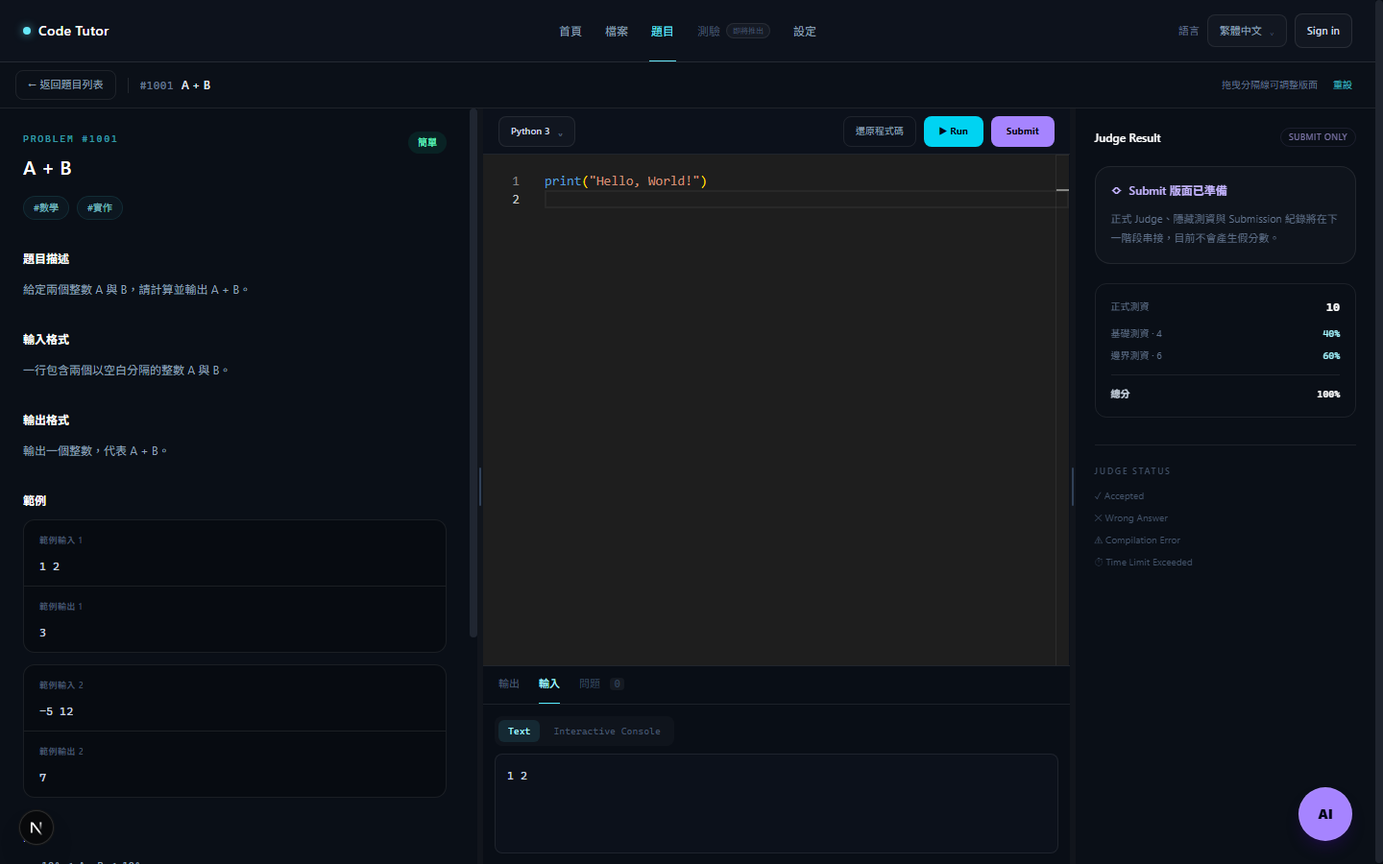
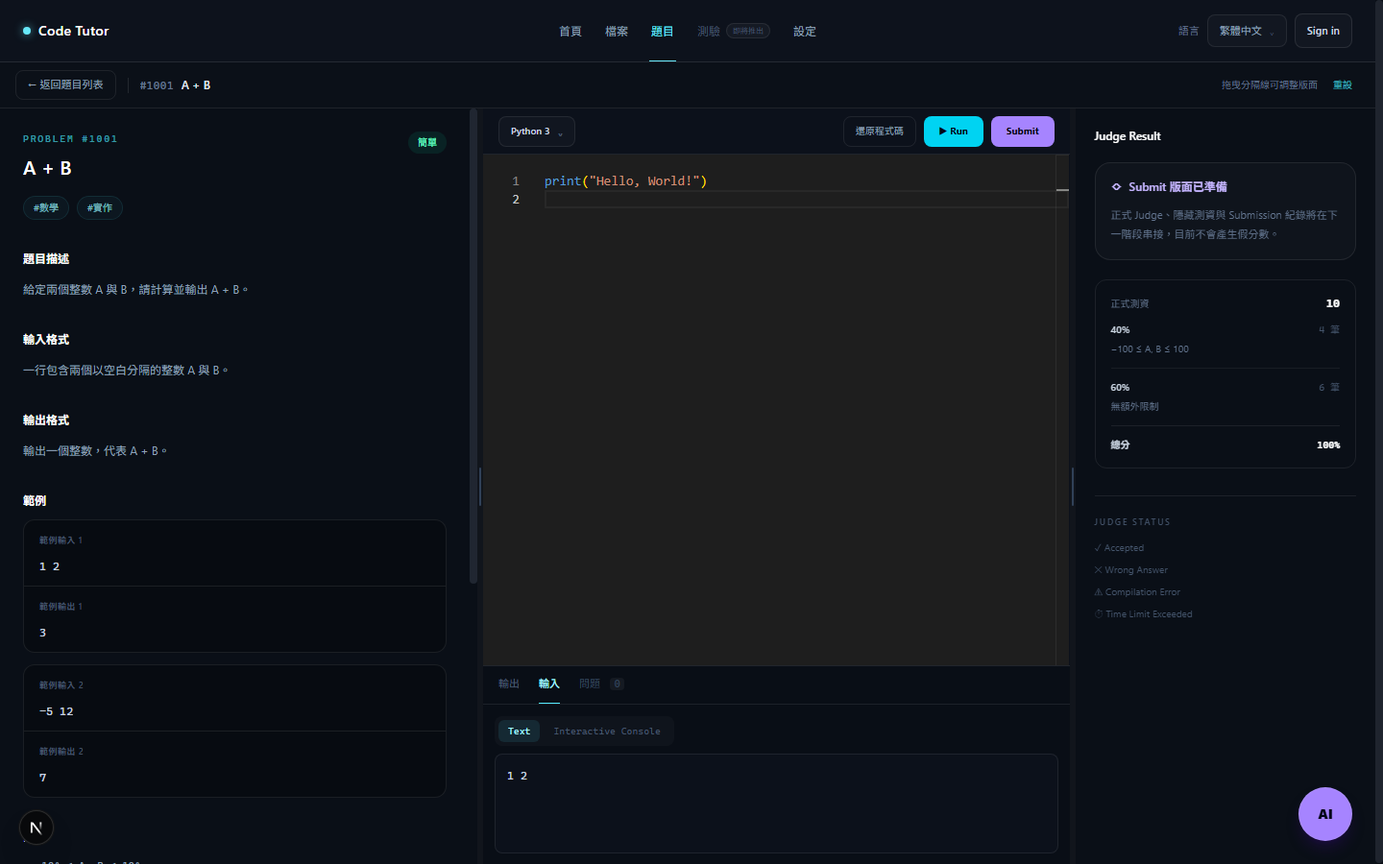
Refine problem workspace navigation and scoring

diff --git a/frontend/src/components/problems/problem-solver-page.tsx b/frontend/src/components/problems/problem-solver-page.tsx
@@ -46,7 +46,7 @@ export function ProblemSolverPage({ problem, onBack }: { problem: Problem; onBac
   const [stdin, setStdin] = useState(problem.samples[0]?.input ?? "");
   const [runResult, setRunResult] = useState<RunResult | null>(null);
   const [isRunning, setIsRunning] = useState(false);
-  const [activeConsoleTab, setActiveConsoleTab] = useState<"output" | "input">("output");
+  const [activeConsoleTab, setActiveConsoleTab] = useState<"output" | "input">("input");
   const [inputMode, setInputMode] = useState<"batch" | "interactive">("batch");
   const [interactiveOutput, setInteractiveOutput] = useState<InteractiveOutput[]>([]);
   const [interactiveStatus, setInteractiveStatus] = useState<InteractiveStatus>("idle");
@@ -246,7 +246,7 @@ export function ProblemSolverPage({ problem, onBack }: { problem: Problem; onBac
       </div>
 
       {aiOpen ? (
-        <div className="fixed bottom-5 right-5 z-50 h-[min(600px,calc(100dvh-7rem))] w-[min(380px,calc(100vw-2.5rem))] overflow-hidden rounded-2xl border border-violet-300/20 bg-[#0b1018] shadow-2xl shadow-black/60">
+        <div className="fixed bottom-5 right-5 z-50 h-[min(600px,calc(100dvh-8.75rem))] w-[min(380px,calc(100vw-2.5rem))] overflow-hidden rounded-2xl border border-violet-300/20 bg-[#0b1018] shadow-2xl shadow-black/60">
           <AiTutorPanel code={code} errorOutput={aiErrorOutput} onClose={() => setAiOpen(false)} programmingLanguage={programmingLanguage} />
         </div>
       ) : (
@@ -276,7 +276,7 @@ function ProblemStatement({ problem, textKey, zh }: { problem: Problem; textKey:
       <StatementSection title={zh ? "限制" : "Constraints"}><ul className="space-y-1 font-mono text-[11px]">{problem.constraints.map((constraint) => <li key={constraint[textKey]}>• {constraint[textKey]}</li>)}</ul><div className="mt-4 grid grid-cols-2 gap-2"><LimitCard label="Time Limit" value={`${problem.timeLimitMs / 1000} sec`} /><LimitCard label="Memory Limit" value={`${problem.memoryLimitMb} MB`} /></div></StatementSection>
       <StatementSection title={zh ? "測資與計分" : "Tests and scoring"}>
         <div className="flex items-center justify-between rounded-lg border border-white/8 bg-white/[0.02] px-3 py-2"><span>{zh ? "正式測資總數" : "Total judge cases"}</span><strong className="font-mono text-cyan-200">{totalCases}</strong></div>
-        <div className="space-y-2">{problem.testGroups.map((group, index) => <div key={group.name[textKey]} className="grid grid-cols-[1fr_auto_auto] items-center gap-3 rounded-lg border border-white/8 px-3 py-2"><span className="text-slate-300">{zh ? `群組 ${index + 1}：` : `Group ${index + 1}: `}{group.name[textKey]}</span><span className="font-mono text-[10px] text-slate-500">{group.testCaseCount} {zh ? "筆" : "cases"}</span><strong className="font-mono text-[10px] text-cyan-200">{group.scorePercent}%</strong></div>)}</div>
+        <div className="space-y-2">{problem.testGroups.map((group, index) => <div key={group.name[textKey]} className="rounded-lg border border-white/8 bg-white/[0.015] px-3 py-3"><div className="flex items-center justify-between gap-3"><span className="text-[10px] font-semibold text-slate-300">{zh ? `子任務 ${index + 1}` : `Subtask ${index + 1}`}</span><strong className="font-mono text-[11px] text-cyan-200">{group.scorePercent}%</strong></div><p className="mt-2 text-[11px] leading-5 text-slate-300">{group.condition[textKey]}</p><p className="mt-1 font-mono text-[9px] text-slate-600">{group.testCaseCount} {zh ? "筆測資" : "judge cases"}</p></div>)}</div>
       </StatementSection>
     </article>
   );
@@ -290,12 +290,12 @@ function JudgePanel({ view, problem, textKey, zh }: { view: JudgeView; problem: 
   const totalCases = problem.testGroups.reduce((sum, group) => sum + group.testCaseCount, 0);
   return (
     <aside className="min-h-[420px] min-w-0 overflow-y-auto bg-[#0a0f17] p-5 xl:min-h-0" aria-label={zh ? "正式評分結果" : "Judge result"}>
-      <div className="flex items-center justify-between"><h2 className="text-xs font-semibold text-white">Judge Result</h2><span className="rounded-full border border-violet-300/10 px-2 py-0.5 text-[9px] uppercase tracking-wider text-violet-300/60">Submit only</span></div>
+      <div className="flex items-center justify-between"><h2 className="text-xs font-semibold text-white">Judge Result</h2></div>
       <div className="mt-5 rounded-2xl border border-white/8 bg-white/[0.025] p-4">
         <div className={`flex items-center gap-2 text-xs font-semibold ${view === "ready" ? "text-slate-300" : "text-violet-300"}`}><span>{view === "ready" ? "○" : "◇"}</span><span>{view === "ready" ? (zh ? "等待送出" : "Ready to submit") : (zh ? "Submit 版面已準備" : "Submit UI is ready")}</span></div>
         <p className="mt-3 text-[11px] leading-5 text-slate-500">{view === "ready" ? (zh ? "按下 Submit 後，正式 Judge 狀態才會顯示在這裡。Run 不會改變此區域。" : "This panel changes only after Submit. Run results stay below the editor.") : (zh ? "正式 Judge、隱藏測資與 Submission 紀錄將在下一階段串接，目前不會產生假分數。" : "The Judge, hidden tests, and submission records will be connected next. No placeholder score is generated.")}</p>
       </div>
-      <div className="mt-5 rounded-xl border border-white/8 p-4"><div className="flex items-center justify-between"><span className="text-[10px] text-slate-500">{zh ? "正式測資" : "Judge cases"}</span><strong className="font-mono text-xs text-white">{totalCases}</strong></div><div className="mt-3 space-y-2">{problem.testGroups.map((group) => <div key={group.name[textKey]} className="flex items-center justify-between text-[10px]"><span className="text-slate-500">{group.name[textKey]} · {group.testCaseCount}</span><span className="font-mono text-cyan-200">{group.scorePercent}%</span></div>)}</div><div className="mt-3 flex items-center justify-between border-t border-white/8 pt-3 text-[10px]"><span className="font-semibold text-slate-300">{zh ? "總分" : "Total"}</span><strong className="font-mono text-white">100%</strong></div></div>
+      <div className="mt-5 rounded-xl border border-white/8 p-4"><div className="flex items-center justify-between"><span className="text-[10px] text-slate-500">{zh ? "正式測資" : "Judge cases"}</span><strong className="font-mono text-xs text-white">{totalCases}</strong></div><div className="mt-3 space-y-3">{problem.testGroups.map((group) => <div key={group.name[textKey]} className="border-t border-white/6 pt-3 first:border-0 first:pt-0"><div className="flex items-center justify-between gap-2 text-[10px]"><span className="font-medium text-slate-300">{group.scorePercent}%</span><span className="font-mono text-slate-600">{group.testCaseCount} {zh ? "筆" : "cases"}</span></div><p className="mt-1 text-[10px] leading-4 text-slate-500">{group.condition[textKey]}</p></div>)}</div><div className="mt-3 flex items-center justify-between border-t border-white/8 pt-3 text-[10px]"><span className="font-semibold text-slate-300">{zh ? "總分" : "Total"}</span><strong className="font-mono text-white">100%</strong></div></div>
       <div className="mt-7 border-t border-white/8 pt-5"><p className="text-[9px] font-semibold uppercase tracking-[0.18em] text-slate-600">Judge status</p><div className="mt-3 grid gap-2 text-[10px] text-slate-600"><span>✓ Accepted</span><span>✕ Wrong Answer</span><span>⚠ Compilation Error</span><span>⏱ Time Limit Exceeded</span></div></div>
     </aside>
   );

diff --git a/plan/mockups/problem-library-folder-grid.html b/plan/mockups/problem-library-folder-grid.html
@@ -1,0 +1,68 @@
+<!doctype html>
+<html lang="zh-Hant">
+<head>
+  <meta charset="utf-8" />
+  <meta name="viewport" content="width=device-width, initial-scale=1" />
+  <title>Code Tutor Problem Grid Mockup</title>
+  <style>
+    * { box-sizing: border-box; }
+    body { margin: 0; min-height: 100vh; background: #090d14; color: #d9e4f2; font-family: Inter, "Noto Sans TC", sans-serif; }
+    header { height: 64px; display: grid; grid-template-columns: 1fr auto 1fr; align-items: center; padding: 0 28px; border-bottom: 1px solid rgba(255,255,255,.09); background: #0d121c; }
+    .brand { display: flex; align-items: center; gap: 10px; font-weight: 700; color: #fff; }
+    .brand-dot { width: 8px; height: 8px; border-radius: 50%; background: #67e8f9; box-shadow: 0 0 12px rgba(103,232,249,.7); }
+    nav { display: flex; height: 64px; gap: 10px; align-items: center; }
+    nav span { height: 64px; display: grid; place-items: center; padding: 0 14px; font-size: 12px; color: #72829a; }
+    nav .active { color: #67e8f9; border-bottom: 1px solid #67e8f9; }
+    .language { justify-self: end; border: 1px solid rgba(255,255,255,.1); border-radius: 10px; padding: 10px 14px; font-size: 11px; color: #9cadc4; }
+    main { max-width: 1320px; margin: 0 auto; padding: 42px 38px 70px; }
+    .proposal { display: inline-flex; align-items: center; gap: 8px; border: 1px solid rgba(196,181,253,.2); border-radius: 999px; background: rgba(196,181,253,.06); padding: 6px 10px; color: #c4b5fd; font-size: 10px; letter-spacing: .08em; }
+    h1 { margin: 16px 0 8px; color: white; font-size: 30px; }
+    .intro { margin: 0; color: #64748b; font-size: 13px; }
+    .explanation { margin-top: 22px; border-left: 2px solid #22d3ee; padding: 8px 14px; color: #8da1ba; font-size: 11px; line-height: 1.8; background: linear-gradient(90deg, rgba(34,211,238,.045), transparent); }
+    .toolbar { margin-top: 28px; display: grid; grid-template-columns: 1fr 180px 180px; gap: 12px; padding: 18px; border: 1px solid rgba(255,255,255,.09); border-radius: 18px; background: #0d131d; }
+    .control { height: 44px; display: flex; align-items: center; border: 1px solid rgba(255,255,255,.09); border-radius: 12px; background: #090e16; padding: 0 15px; color: #53657e; font-size: 11px; }
+    .section-title { margin: 34px 0 8px; display: flex; justify-content: space-between; align-items: end; }
+    .section-title h2 { margin: 0; color: #fff; font-size: 15px; }
+    .section-title span { color: #40516a; font-size: 10px; }
+    .grid { display: grid; grid-template-columns: repeat(4, minmax(0, 1fr)); gap: 18px; margin-top: 18px; }
+    .problem { min-width: 0; border: 1px solid rgba(255,255,255,.08); border-radius: 18px; background: #0c121b; padding: 18px 16px 15px; transition: .2s; }
+    .problem.selected { border-color: rgba(103,232,249,.34); background: #0d1721; box-shadow: 0 0 0 1px rgba(103,232,249,.05), 0 14px 30px rgba(0,0,0,.18); }
+    .folder { position: relative; height: 112px; margin-top: 9px; border: 1px solid rgba(103,232,249,.18); border-radius: 10px 12px 12px 12px; background: linear-gradient(145deg, #132332, #0d1823); overflow: visible; }
+    .folder::before { content: ""; position: absolute; left: -1px; top: -15px; width: 72px; height: 24px; border: 1px solid rgba(103,232,249,.18); border-bottom: 0; border-radius: 9px 13px 0 0; background: #132332; }
+    .folder-top { position: absolute; inset: 0; display: flex; flex-direction: column; justify-content: space-between; padding: 17px 15px 14px; }
+    .meta { display: flex; align-items: center; justify-content: space-between; }
+    .id { font: 10px Consolas, monospace; color: #52647b; }
+    .status { font-size: 9px; color: #6ee7b7; }
+    .title { color: #f5f8fc; font-size: 14px; font-weight: 700; line-height: 1.35; }
+    .difficulty { width: max-content; border-radius: 999px; padding: 3px 7px; font-size: 8px; font-weight: 700; background: rgba(52,211,153,.08); color: #6ee7b7; }
+    .difficulty.medium { background: rgba(251,191,36,.08); color: #fde68a; }
+    .difficulty.hard { background: rgba(251,113,133,.08); color: #fda4af; }
+    .file-label { min-height: 37px; margin-top: 12px; text-align: center; color: #8ea3bb; font-size: 10px; line-height: 1.65; }
+    .file-label strong { color: #67e8f9; font-weight: 500; }
+    .hint { margin-top: 22px; display: flex; align-items: center; gap: 8px; color: #51627a; font-size: 10px; }
+    .hint i { width: 6px; height: 6px; border-radius: 50%; background: #67e8f9; }
+  </style>
+</head>
+<body>
+  <header>
+    <div class="brand"><span class="brand-dot"></span>Code Tutor</div>
+    <nav><span>首頁</span><span>檔案</span><span class="active">題目</span><span>測驗</span><span>設定</span></nav>
+    <div class="language">語言　繁體中文⌄</div>
+  </header>
+  <main>
+    <span class="proposal">設計提案 · 尚未套用正式頁面</span>
+    <h1>用資料夾方式瀏覽題目</h1>
+    <p class="intro">保留 Code Tutor 的深色工程風格，把原本的一列一列改成更容易掃視與點擊的格狀卡片。</p>
+    <div class="explanation">本提案暫定：每個資料夾代表一道題目；題目名稱放在資料夾內，資料夾下方原本像「檔名」的位置顯示這道題目的標籤。整張卡片都可以點擊。</div>
+    <div class="toolbar"><div class="control">⌕　搜尋題號、名稱或 #標籤…</div><div class="control">所有難度　⌄</div><div class="control">所有狀態　⌄</div></div>
+    <div class="section-title"><h2>題目資料夾</h2><span>找到 4 題</span></div>
+    <section class="grid">
+      <article class="problem selected"><div class="folder"><div class="folder-top"><div class="meta"><span class="id">#1001</span><span class="status">✓ 已通過</span></div><div class="title">A + B</div><span class="difficulty">簡單</span></div></div><div class="file-label"><strong>#數學</strong>　<strong>#實作</strong></div></article>
+      <article class="problem"><div class="folder"><div class="folder-top"><div class="meta"><span class="id">#1002</span><span class="status" style="color:#fde68a">◐ 嘗試過</span></div><div class="title">在排序陣列中<br>尋找目標</div><span class="difficulty medium">中等</span></div></div><div class="file-label"><strong>#二分搜尋</strong>　<strong>#陣列</strong></div></article>
+      <article class="problem"><div class="folder"><div class="folder-top"><div class="meta"><span class="id">#1003</span><span class="status" style="color:#52647b">○ 未作答</span></div><div class="title">迷宮最短路徑</div><span class="difficulty medium">中等</span></div></div><div class="file-label"><strong>#BFS</strong>　<strong>#圖論</strong></div></article>
+      <article class="problem"><div class="folder"><div class="folder-top"><div class="meta"><span class="id">#1004</span><span class="status" style="color:#52647b">○ 未作答</span></div><div class="title">最大連續和</div><span class="difficulty hard">困難</span></div></div><div class="file-label"><strong>#動態規劃</strong>　<strong>#陣列</strong></div></article>
+    </section>
+    <div class="hint"><i></i>核可後才會將這個格狀版面套用到正式 Problems 頁面。</div>
+  </main>
+</body>
+</html>

diff --git a/frontend/src/components/problems/problem-data.ts b/frontend/src/components/problems/problem-data.ts
@@ -15,6 +15,7 @@ export type ProblemSample = {
 
 export type ProblemTestGroup = {
   name: LocalizedText;
+  condition: LocalizedText;
   testCaseCount: number;
   scorePercent: number;
 };
@@ -79,8 +80,8 @@ export const problems: Problem[] = [
     ],
     constraints: [{ zh: "−10⁹ ≤ A, B ≤ 10⁹", en: "−10⁹ ≤ A, B ≤ 10⁹" }],
     testGroups: [
-      { name: { zh: "基礎測資", en: "Basic cases" }, testCaseCount: 4, scorePercent: 40 },
-      { name: { zh: "邊界測資", en: "Boundary cases" }, testCaseCount: 6, scorePercent: 60 },
+      { name: { zh: "小範圍", en: "Small range" }, condition: { zh: "−100 ≤ A, B ≤ 100", en: "−100 ≤ A, B ≤ 100" }, testCaseCount: 4, scorePercent: 40 },
+      { name: { zh: "完整範圍", en: "Full range" }, condition: { zh: "無額外限制", en: "No additional constraints" }, testCaseCount: 6, scorePercent: 60 },
     ],
     timeLimitMs: 1000,
     memoryLimitMb: 256,
@@ -108,8 +109,8 @@ export const problems: Problem[] = [
       { zh: "−10⁹ ≤ 陣列元素, X ≤ 10⁹", en: "−10⁹ ≤ array values, X ≤ 10⁹" },
     ],
     testGroups: [
-      { name: { zh: "無重複元素", en: "Unique values" }, testCaseCount: 8, scorePercent: 40 },
-      { name: { zh: "完整測資", en: "Full cases" }, testCaseCount: 12, scorePercent: 60 },
+      { name: { zh: "小範圍且無重複", en: "Small unique range" }, condition: { zh: "N ≤ 1,000，且陣列元素皆不重複", en: "N ≤ 1,000 and all array values are unique" }, testCaseCount: 8, scorePercent: 40 },
+      { name: { zh: "完整範圍", en: "Full range" }, condition: { zh: "無額外限制", en: "No additional constraints" }, testCaseCount: 12, scorePercent: 60 },
     ],
     timeLimitMs: 1000,
     memoryLimitMb: 256,
@@ -130,12 +131,11 @@ export const problems: Problem[] = [
     outputFormat: { zh: "輸出最少步數；如果無法到達，輸出 −1。", en: "Print the minimum steps, or −1 if the exit is unreachable." },
     samples: [
       { input: "3 4\nS...\n.##.\n...E", output: "5" },
-      { input: "2 2\nS#\n.E", output: "2" },
     ],
     constraints: [{ zh: "1 ≤ H, W ≤ 1,000", en: "1 ≤ H, W ≤ 1,000" }],
     testGroups: [
-      { name: { zh: "小型迷宮", en: "Small mazes" }, testCaseCount: 10, scorePercent: 30 },
-      { name: { zh: "大型迷宮", en: "Large mazes" }, testCaseCount: 20, scorePercent: 70 },
+      { name: { zh: "小型迷宮", en: "Small mazes" }, condition: { zh: "H, W ≤ 30", en: "H, W ≤ 30" }, testCaseCount: 10, scorePercent: 30 },
+      { name: { zh: "完整範圍", en: "Full range" }, condition: { zh: "無額外限制", en: "No additional constraints" }, testCaseCount: 20, scorePercent: 70 },
     ],
     timeLimitMs: 2000,
     memoryLimitMb: 256,
@@ -156,14 +156,15 @@ export const problems: Problem[] = [
     samples: [
       { input: "8\n-2 -3 4 -1 -2 1 5 -3", output: "7" },
       { input: "3\n-5 -1 -8", output: "-1" },
+      { input: "5\n1 2 3 4 5", output: "15" },
     ],
     constraints: [
       { zh: "1 ≤ N ≤ 1,000,000", en: "1 ≤ N ≤ 1,000,000" },
       { zh: "−10⁹ ≤ Ai ≤ 10⁹", en: "−10⁹ ≤ Ai ≤ 10⁹" },
     ],
     testGroups: [
-      { name: { zh: "小範圍", en: "Small range" }, testCaseCount: 10, scorePercent: 30 },
-      { name: { zh: "完整範圍", en: "Full range" }, testCaseCount: 20, scorePercent: 70 },
+      { name: { zh: "小範圍", en: "Small range" }, condition: { zh: "N ≤ 5,000", en: "N ≤ 5,000" }, testCaseCount: 10, scorePercent: 30 },
+      { name: { zh: "完整範圍", en: "Full range" }, condition: { zh: "無額外限制", en: "No additional constraints" }, testCaseCount: 20, scorePercent: 70 },
     ],
     timeLimitMs: 1000,
     memoryLimitMb: 256,

diff --git a/frontend/src/components/problems/problems-page.tsx b/frontend/src/components/problems/problems-page.tsx
@@ -1,6 +1,6 @@
 "use client";
 
-import { useMemo, useState } from "react";
+import { useEffect, useMemo, useRef, useState } from "react";
 
 import { useLanguage } from "@/lib/language-context";
 
@@ -9,8 +9,9 @@ import { ProblemSolverPage } from "./problem-solver-page";
 
 const allTags = Object.keys(tagLabels) as ProblemTag[];
 const hashtagPattern = /#[^\s#]+/gu;
+const selectedProblemStorageKey = "code-tutor:selected-problem";
 
-export function ProblemsPage() {
+export function ProblemsPage({ resetListRevision = 0 }: { resetListRevision?: number }) {
   const { language } = useLanguage();
   const zh = language === "zh-Hant";
   const textKey = zh ? "zh" : "en";
@@ -19,6 +20,23 @@ export function ProblemsPage() {
   const [difficulty, setDifficulty] = useState<ProblemDifficulty | "all">("all");
   const [status, setStatus] = useState<ProblemStatus | "all">("all");
   const [selectedTags, setSelectedTags] = useState<ProblemTag[]>([]);
+  const previousResetRevision = useRef(resetListRevision);
+
+  useEffect(() => {
+    const restoreTimer = window.setTimeout(() => {
+      const storedProblemId = window.localStorage.getItem(selectedProblemStorageKey);
+      const storedProblem = problems.find((problem) => problem.id === storedProblemId);
+      if (storedProblem) setSelectedProblem(storedProblem);
+    }, 0);
+    return () => window.clearTimeout(restoreTimer);
+  }, []);
+
+  useEffect(() => {
+    if (previousResetRevision.current === resetListRevision) return;
+    previousResetRevision.current = resetListRevision;
+    window.localStorage.removeItem(selectedProblemStorageKey);
+    setSelectedProblem(null);
+  }, [resetListRevision]);
 
   const queryTags = useMemo(() => {
     return (query.match(hashtagPattern) ?? []).map((token) => {
@@ -49,7 +67,10 @@ export function ProblemsPage() {
   }, [difficulty, language, query, queryTags, selectedTags, status, textKey]);
 
   if (selectedProblem) {
-    return <ProblemSolverPage problem={selectedProblem} onBack={() => setSelectedProblem(null)} />;
+    return <ProblemSolverPage problem={selectedProblem} onBack={() => {
+      window.localStorage.removeItem(selectedProblemStorageKey);
+      setSelectedProblem(null);
+    }} />;
   }
 
   const clearFilters = () => {
@@ -108,7 +129,10 @@ export function ProblemsPage() {
             <div className="hidden grid-cols-[80px_minmax(0,1fr)_140px_130px_72px] gap-4 border-b border-white/8 bg-white/[0.018] px-5 py-3 text-[9px] font-semibold uppercase tracking-[0.16em] text-slate-600 md:grid">
               <span>ID</span><span>{zh ? "題目" : "Title"}</span><span>{zh ? "難度" : "Difficulty"}</span><span>{zh ? "狀態" : "Status"}</span><span />
             </div>
-            {filteredProblems.map((problem) => <ProblemRow key={problem.id} problem={problem} textKey={textKey} zh={zh} onOpen={() => setSelectedProblem(problem)} />)}
+            {filteredProblems.map((problem) => <ProblemRow key={problem.id} problem={problem} textKey={textKey} zh={zh} onOpen={() => {
+              window.localStorage.setItem(selectedProblemStorageKey, problem.id);
+              setSelectedProblem(problem);
+            }} />)}
           </div>
         ) : (
           <div className="mt-3 rounded-2xl border border-dashed border-white/10 py-16 text-center">

diff --git a/frontend/src/components/app-shell.tsx b/frontend/src/components/app-shell.tsx
@@ -18,6 +18,8 @@ type OpenedProject = FileProject & { ownerId: string };
 type PendingAction = () => void | Promise<void>;
 
 const openProjectStoragePrefix = "code-tutor:open-project:";
+const activeSectionStorageKey = "code-tutor:active-section";
+const selectedProblemStorageKey = "code-tutor:selected-problem";
 
 function AppContent() {
   const { language, t } = useLanguage();
@@ -28,6 +30,17 @@ function AppContent() {
   const [openProject, setOpenProject] = useState<OpenedProject | null>(null);
   const [hasUnsavedCode, setHasUnsavedCode] = useState(false);
   const [pendingAction, setPendingAction] = useState<PendingAction | null>(null);
+  const [problemsListRevision, setProblemsListRevision] = useState(0);
+
+  useEffect(() => {
+    const restoreTimer = window.setTimeout(() => {
+      const storedSection = window.localStorage.getItem(activeSectionStorageKey);
+      if (["home", "files", "problems", "quiz", "settings"].includes(storedSection ?? "")) {
+        setActiveSection(storedSection as PrimarySection);
+      }
+    }, 0);
+    return () => window.clearTimeout(restoreTimer);
+  }, []);
 
   useEffect(() => {
     const restoreTimer = window.setTimeout(() => {
@@ -84,7 +97,12 @@ function AppContent() {
 
   const selectSection = (section: PrimarySection) => {
     protectUnsavedCode(() => {
+      if (section === "problems") {
+        window.localStorage.removeItem(selectedProblemStorageKey);
+        setProblemsListRevision((current) => current + 1);
+      }
       setActiveSection(section);
+      window.localStorage.setItem(activeSectionStorageKey, section);
       if (openProject) closeProject();
     });
   };
@@ -102,7 +120,7 @@ function AppContent() {
   } else if (activeSection === "files") {
     content = <FileHome key={user?.id ?? "guest"} onOpenProject={openUserProject} />;
   } else if (activeSection === "problems") {
-    content = <ProblemsPage />;
+    content = <ProblemsPage resetListRevision={problemsListRevision} />;
   } else if (activeSection === "home") {
     content = <HomePage onSelect={selectSection} />;
   } else if (activeSection === "settings") {

diff --git a/frontend/src/components/workspace/workspace-center.tsx b/frontend/src/components/workspace/workspace-center.tsx
@@ -41,7 +41,7 @@ export function WorkspaceCenter({
   const [stdin, setStdin] = useState(initialInput);
   const [result, setResult] = useState<RunResult | null>(null);
   const [isRunning, setIsRunning] = useState(false);
-  const [activeTab, setActiveTab] = useState<"output" | "input">("output");
+  const [activeTab, setActiveTab] = useState<"output" | "input">("input");
   const [inputMode, setInputMode] = useState<"batch" | "interactive">("batch");
   const [interactiveOutput, setInteractiveOutput] = useState<InteractiveOutput[]>([]);
   const [interactiveStatus, setInteractiveStatus] = useState<InteractiveStatus>("idle");

diff --git a/frontend/src/components/workspace/ai-tutor-panel.tsx b/frontend/src/components/workspace/ai-tutor-panel.tsx
@@ -45,6 +45,7 @@ export function AiTutorPanel({ code, errorOutput, onClose, programmingLanguage }
     : t("tutorGreeting");
 
   useEffect(() => {
+    if (messages.length === 0) return;
     scrollRef.current?.scrollTo({ top: scrollRef.current.scrollHeight, behavior: "smooth" });
   }, [messages]);
 

diff --git a/plan/problem-platform-layout.md b/plan/problem-platform-layout.md
@@ -51,6 +51,29 @@
   - 簡易說明：確認兩種程式語言、兩種輸入模式、Run／Submit 分離及響應式版面正常。
 - [x] 17. 修正 AI Tutor 關閉按鈕。
   - 簡易說明：將關閉按鈕從「引導模式」上方移到標題列獨立位置，增加尺寸、邊框與 hover／focus 狀態，避免誤觸並提升辨識度。
+- [x] 18. 修正 AI Tutor 浮動視窗的垂直位置。
+  - 簡易說明：面板最高只能到題目工具列下方，使關閉鍵不會靠近或蓋住上方版面控制。
+- [x] 19. 所有 Compiler 預設顯示 Input。
+  - 簡易說明：進入 Project 或題目時先準備輸入；Text 模式按 Run 後自動切換 Output，Interactive Console 則保留互動輸入畫面。
+- [x] 20. 將測資群組改成明確的得分條件。
+  - 簡易說明：不再只寫 Basic／Boundary，而是顯示「此群組限制條件、測資數與占分」。
+- [x] 21. 移除 `Submit only` 並讓 Sample 數量依題目設定。
+  - 簡易說明：右側只保留 Judge Result；各題可有一組、兩組或更多範例，不強迫固定數量。
+- [x] 22. 重新整理後恢復原畫面。
+  - 簡易說明：記住 Home／File／Problems／Settings，以及目前開啟的題目；重新整理後恢復相同位置。
+- [x] 23. 在題目詳情再次點 Problems 時回到列表。
+  - 簡易說明：上方 Problems 是題庫首頁入口，因此在解題頁點擊後要離開題目並顯示題目列表。
+- [x] 24. 先製作資料夾式題目列表設計圖，不套用正式頁面。
+  - 簡易說明：依照圖一先提供深色格狀 mockup；每個資料夾代表一道題目，資料夾下方以類似檔名的位置顯示該題標籤。等使用者核可後才修改正式 Problem List。
+
+## 本輪執行結果
+
+- [x] AI Tutor 關閉鍵固定在題目工具列下方，短畫面也不會蓋住上方控制。
+- [x] File 與 Problems 的編譯器起始頁籤為 Input；Text 模式 Run 後切至 Output。
+- [x] 題目敘述與 Judge Result 都顯示各組限制、測資數與配分。
+- [x] 移除 `Submit only`，範例數量改由每道題目的資料決定。
+- [x] 重新整理可恢復目前頁面與題目；解題頁點 Problems 可回題目列表。
+- [x] 已輸出 `plan/mockups/problem-library-folder-grid.png`，正式列表等待使用者核可。
 
 ## 驗收方式
 
